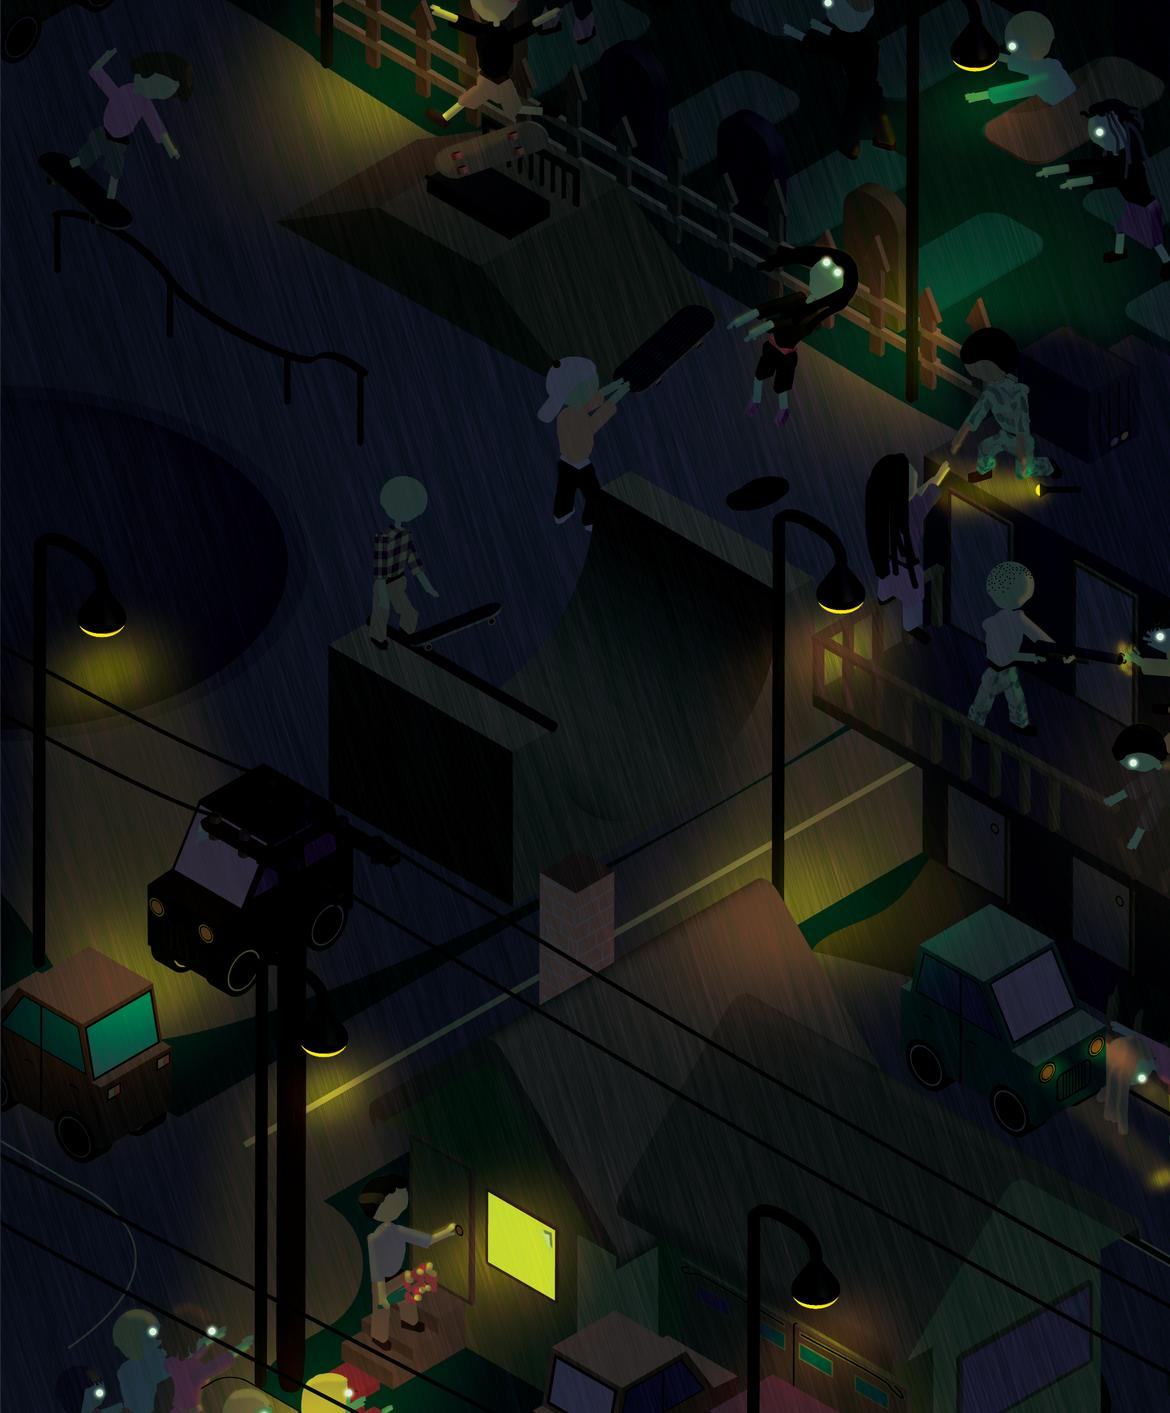
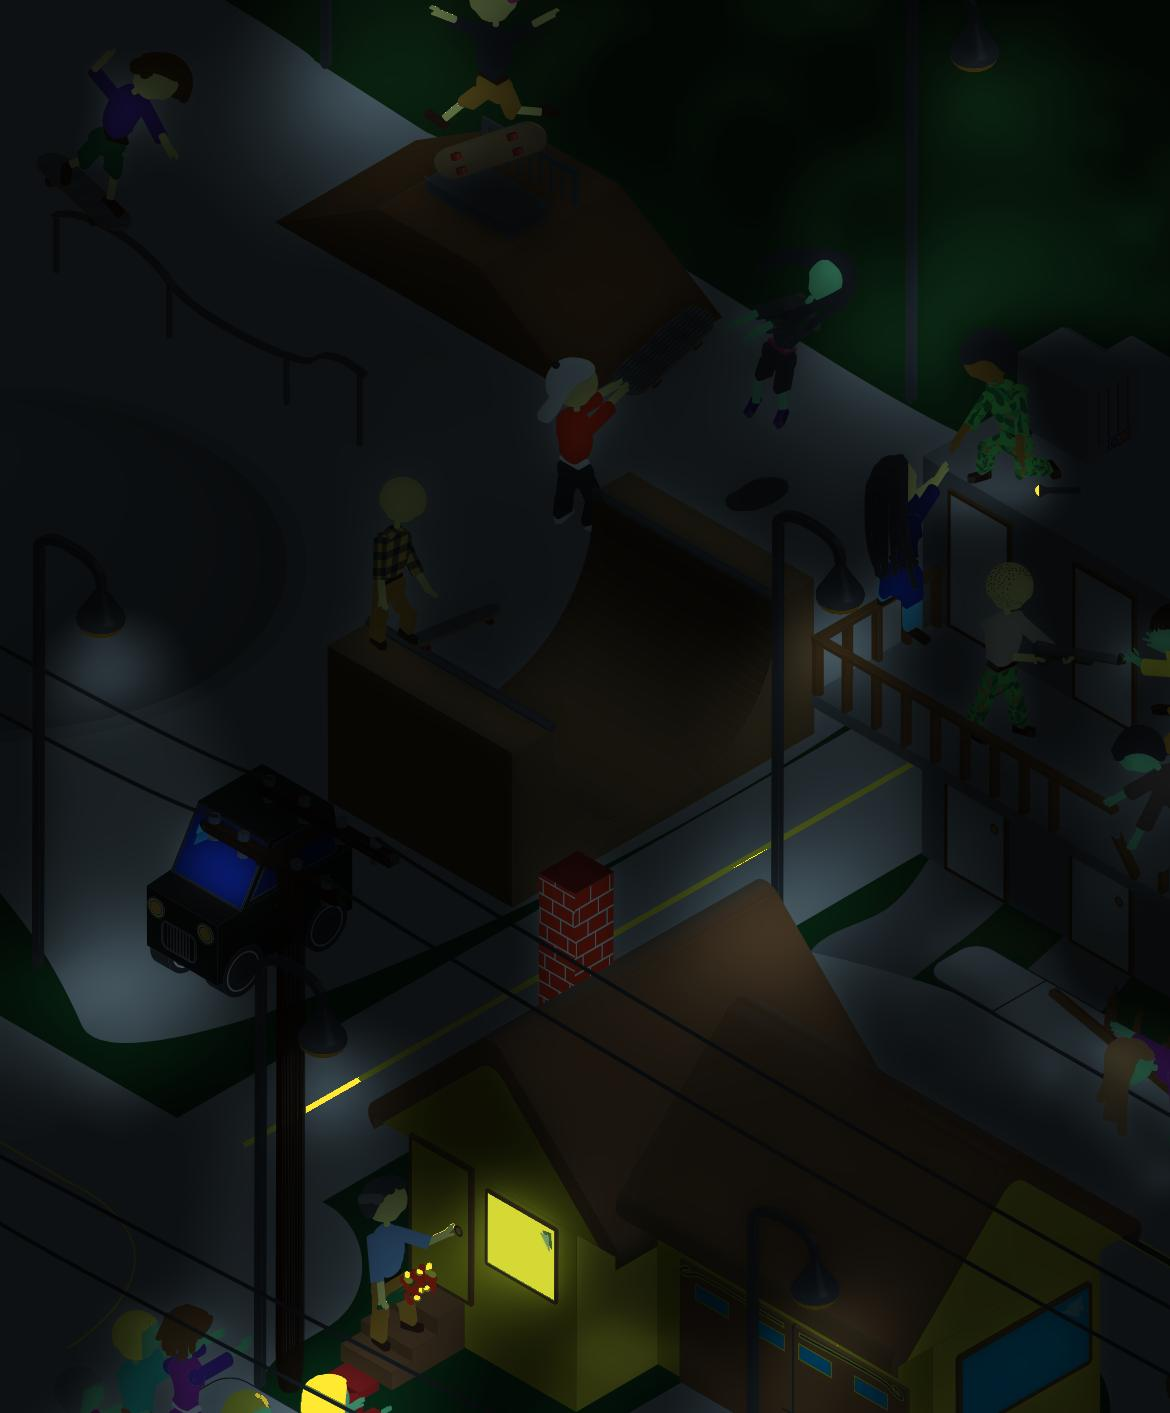
Poster: clean relit vector art (no static people or cars), rounded characters, roaming potato monster, pinch/wheel zoom

diff --git a/src/poster/main.js b/src/poster/main.js
@@ -1,8 +1,8 @@
 import * as THREE from 'three';
-import { makeCharacter, animateWalk } from '../characters.js';
+import { makeCharacter, animateWalk } from './characters.js';
 import { createInput } from '../input.js';
 import { unlockAudio, sfx, startMusic, stopMusic, setMusicTension, setMuted, isMuted, audioState } from '../audio.js';
-import { loadWorld, flowField, findPath, nearestOpen, CAM_DIR, pxToWorld, worldToPx, PPU } from './world.js';
+import { loadWorld, flowField, findPath, nearestOpen, CAM_DIR, RIGHT, UP, pxToWorld, worldToPx, PPU } from './world.js';
 
 // ---------- renderer / scene ----------
 const canvas = document.getElementById('game');
@@ -14,9 +14,10 @@ const camera = new THREE.OrthographicCamera(-1, 1, 1, -1, 0.1, 500);
 scene.add(new THREE.HemisphereLight(0xbfe6e0, 0x24383c, 1.6));
 const sun = new THREE.DirectionalLight(0xd0e8ff, 0.8); sun.position.set(-6, 10, 8); scene.add(sun);
 
+let zoom = 1; try { zoom = +localStorage.getItem('dv_zoom') || 1; } catch { /* ignore */ }
 function fitCamera() {
   const aspect = innerWidth / innerHeight; renderer.setSize(innerWidth, innerHeight, false);
-  const half = aspect < 1 ? 12 / aspect * 0.62 : 10; // portrait phones see about 600 px of painting across
+  const half = (aspect < 1 ? 12 / aspect * 0.62 : 10) * zoom; // portrait phones see about 600 px of painting across
   camera.left = -half * aspect; camera.right = half * aspect; camera.top = half; camera.bottom = -half; camera.updateProjectionMatrix();
 }
 addEventListener('resize', fitCamera); fitCamera();
@@ -36,7 +37,7 @@ soundBtn.addEventListener('click', () => { unlockAudio(); setMuted(!isMuted()); 
 
 // ---------- constants ----------
 const PLAYER_SPEED = 4.5, R = 0.3, CHAR_SCALE = 1.3;
-const CIV_OUTFITS = ['vest', 'suit', 'hoodie', 'hivis', 'punk', 'worker'];
+const CIV_OUTFITS = ['vest', 'suit', 'hoodie', 'hivis', 'punk', 'worker', 'pink', 'plaid'];
 const WEAPONS = {
   pistol:  { name: 'Pistol',  ammo: 12, rate: 0.35, range: 9,  speed: 22, pellets: 1, dmg: 1, color: 0x333333 },
   shotgun: { name: 'Shotgun', ammo: 6,  rate: 0.7,  range: 7,  speed: 18, pellets: 4, dmg: 1, color: 0x7a4a1a },
@@ -48,7 +49,7 @@ let world = null, state = 'loading', score = 0, lives = 3, time = 0, kills = 0, 
 let startCell = null, exitCell = null, exitMesh = null;
 const player = makeCharacter('worker'); scene.add(player); player.visible = false; player.scale.setScalar(CHAR_SCALE);
 // x-ray silhouette so the player stays visible behind buildings
-const ghostMat = new THREE.MeshBasicMaterial({ color: 0x9fffb0, transparent: true, opacity: 0.35, depthTest: false, depthWrite: false });
+const ghostMat = new THREE.MeshBasicMaterial({ color: 0x9fffb0, transparent: true, opacity: 0.45, depthTest: true, depthWrite: false, depthFunc: THREE.GreaterDepth });
 const ghost = makeCharacter('worker'); ghost.traverse((o) => { if (o.isMesh) { o.material = ghostMat; o.renderOrder = 999; } }); ghost.scale.setScalar(CHAR_SCALE); ghost.visible = false; scene.add(ghost);
 function syncGhost() { ghost.visible = player.visible; ghost.position.copy(player.position); ghost.rotation.copy(player.rotation); const a = player.userData, b = ghost.userData; for (const k of ['legL', 'legR', 'armL', 'armR', 'head']) b[k].rotation.copy(a[k].rotation); b.body.position.copy(a.body.position); }
 let civilians = [], zombies = [], pickups = [], projectiles = [], particles = [], followers = [];
@@ -61,6 +62,26 @@ const puffGeo = new THREE.BoxGeometry(0.16, 0.16, 0.16), puffMat = new THREE.Mes
 const markerGeo = new THREE.CylinderGeometry(0.22, 0.22, 0.05, 10), markerMat = new THREE.MeshBasicMaterial({ color: 0x7dff6a, transparent: true, opacity: 0.8 });
 const markers = []; for (let i = 0; i < 80; i++) { const mk = new THREE.Mesh(markerGeo, markerMat); mk.visible = false; scene.add(mk); markers.push(mk); }
 const camTarget = new THREE.Vector3();
+let potato = null; // { mesh, route, speed, w, h, t }
+async function makePotato() {
+  const meta = await (await fetch('poster/potato.json')).json().catch(() => null); if (!meta) return;
+  const t = await new Promise((res, rej) => new THREE.TextureLoader().load('poster/potato.png', (x) => { x.colorSpace = THREE.SRGBColorSpace; res(x); }, undefined, rej)).catch(() => null); if (!t) return;
+  const w = meta.w / PPU, h = meta.h / PPU; // world size of the sprite
+  const g = new THREE.BufferGeometry();
+  const ax = meta.ax - meta.x, ay = meta.ay - meta.y; // anchor inside the sprite (px)
+  const c = (px, py) => { const r = (px - ax) / PPU, u = (ay - py) / PPU; return [RIGHT.x * r + UP.x * u, UP.y * u, RIGHT.z * r + UP.z * u]; };
+  const pos = [...c(0, meta.h), ...c(meta.w, meta.h), ...c(0, 0), ...c(meta.w, 0)];
+  g.setAttribute('position', new THREE.Float32BufferAttribute(pos, 3)); g.setAttribute('uv', new THREE.Float32BufferAttribute([0, 0, 1, 0, 0, 1, 1, 1], 2)); g.setIndex([0, 1, 2, 2, 1, 3]);
+  const mesh = new THREE.Mesh(g, new THREE.MeshBasicMaterial({ map: t, alphaTest: 0.5, side: THREE.DoubleSide })); scene.add(mesh);
+  potato = { mesh, route: [], speed: 0.9, t: 0, w, h, last: new THREE.Vector3() };
+}
+function updatePotato(dt) {
+  if (!potato || !world) return; const p = potato; p.t += dt;
+  if (!p.route.length) { const cells = []; const pc = world.cellOf(p.mesh.position.x, p.mesh.position.z); for (let k = 0; k < 40 && cells.length < 1; k++) { const c = pc.cx + ((Math.random() - 0.5) * 30) | 0, r = pc.cy + ((Math.random() - 0.5) * 30) | 0; if (world.open(c, r)) { const path = findPath(world, pc, { cx: c, cy: r }); if (path.length > 4) cells.push(path); } } if (cells.length) p.route = cells[0]; }
+  if (p.route.length) { const w = world.cellCenter(p.route[0][0], p.route[0][1]); const dx = w.x - p.mesh.position.x, dz = w.z - p.mesh.position.z, d = Math.hypot(dx, dz); if (d < 0.3) p.route.shift(); else { const st = Math.min(d, p.speed * dt); p.mesh.position.x += dx / d * st; p.mesh.position.z += dz / d * st; } }
+  p.mesh.scale.set(1 + Math.sin(p.t * 2.2) * 0.03, 1 - Math.sin(p.t * 2.2) * 0.03, 1); // slow breathing
+  if (state === 'play' && invuln <= 0 && Math.hypot(p.mesh.position.x - player.position.x, p.mesh.position.z - player.position.z) < 1.6) loseLife();
+}
 const input = createInput(canvas, camera);
 
 function showRoute() { markers.forEach((mk, i) => { const c = route[i]; mk.visible = !!c; if (c) { const w = world.cellCenter(c[0], c[1]); mk.position.set(w.x, 0.03, w.z); } }); }
@@ -73,6 +94,7 @@ function extendRoute(w, first) {
   const seg = findPath(world, routeEndCell || playerCell(), t); if (seg.length && route.length + seg.length <= 80) { route.push(...seg); routeEndCell = t; showRoute(); }
 }
 input.on('tap', setRouteTo); input.on('drag', extendRoute);
+input.on('zoom', (f) => { zoom = Math.max(0.5, Math.min(2.2, zoom * f)); try { localStorage.setItem('dv_zoom', String(zoom)); } catch { /* ignore */ } fitCamera(); });
 
 // collision: stay on walkable cells (cheap: push back toward last good position)
 const lastGood = new THREE.Vector3();
@@ -116,6 +138,7 @@ function buildLevel() {
   let wc = 0; const names = Object.keys(WEAPONS);
   for (const [c, r] of mid.slice().reverse()) { if (wc >= 5) break; if (dist[r * gcols + c] < 8) continue; const type = names[(rng() * 3) | 0]; const w = world.cellCenter(c, r); const mesh = new THREE.Mesh(pickGeo, new THREE.MeshLambertMaterial({ color: WEAPONS[type].color })); mesh.position.set(w.x, 0.3, w.z); scene.add(mesh); pickups.push({ mesh, type }); wc++; }
   const sp = world.cellCenter(startCell.cx, startCell.cy); player.position.set(sp.x, 0, sp.z); lastGood.copy(player.position); player.visible = true;
+  if (potato) { const spot = mid.find(([c, r]) => r > grows * 0.55 && dist[r * gcols + c] > 30); if (spot) { const w = world.cellCenter(spot[0], spot[1]); potato.mesh.position.set(w.x, 0, w.z); potato.route = []; } }
   weapon = null; ammo = 0; flow = null; invuln = 1; kills = 0; time = 0; route = []; routeEndCell = null; showRoute(); camTarget.copy(player.position);
   updateHud();
 }
@@ -228,6 +251,7 @@ function frame(now) {
     for (let i = particles.length - 1; i >= 0; i--) { const p = particles[i]; p.position.addScaledVector(p.userData.vel, dt); p.userData.vel.y -= 12 * dt; p.userData.life -= dt; if (p.userData.life <= 0) { scene.remove(p); particles.splice(i, 1); } }
   } else if (state !== 'loading') { for (const z of zombies) animateWalk(z, dt, 0.3); }
   if (rain) updateRain(dt);
+  if (state === 'play' || state === 'start') updatePotato(dt);
   syncGhost();
   render(dt);
 }
@@ -249,10 +273,10 @@ requestAnimationFrame(frame);
 (async () => {
   try {
     world = await loadWorld(scene, 'poster/');
-    makeRain();
+    makeRain(); await makePotato();
     // idle view on the title screen: middle of town
     const mid = pxToWorld(world.meta.width / 2, world.meta.height * 0.55); player.position.set(mid.x, 0, mid.z); camTarget.copy(player.position);
     state = 'start'; $('loading').textContent = 'Town loaded. ' + Math.round(world.meta.width) + '×' + Math.round(world.meta.height) + ' px of Duvallville.'; $('startBtn').disabled = false;
   } catch (e) { $('loading').textContent = 'Could not load the town: ' + e.message; }
 })();
-window.__dv = { get world() { return world; }, get player() { return player; }, get state() { return state; }, get zombies() { return zombies; }, get civilians() { return civilians; }, get pickups() { return pickups; }, get exit() { return exitMesh && exitMesh.position; }, routeTo: (c, r) => { const w = world.cellCenter(c, r); setRouteTo(w); }, px: worldToPx, toWorld: pxToWorld, PPU };
+window.__dv = { get potato() { return potato; }, get world() { return world; }, get player() { return player; }, get state() { return state; }, get zombies() { return zombies; }, get civilians() { return civilians; }, get pickups() { return pickups; }, get exit() { return exitMesh && exitMesh.position; }, routeTo: (c, r) => { const w = world.cellCenter(c, r); setRouteTo(w); }, px: worldToPx, toWorld: pxToWorld, PPU };

diff --git a/src/poster/characters.js b/src/poster/characters.js
@@ -1,0 +1,56 @@
+// Rounded, flat-shaded characters in the poster's style: round heads, capsule bodies and limbs,
+// big glowing eyes on zombies. Same animation hooks as the blocky characters.
+import * as THREE from 'three';
+
+export const OUTFITS = {
+  worker:  { skin: 0xf0c9a6, hair: 0x4a2f1c, shirt: 0x4f8fd6, pants: 0x3b3f55, tie: 0x2a3d7a },
+  vest:    { skin: 0xf0c9a6, hair: 0x1f2740, shirt: 0xff8a2a, pants: 0x2c3148 },
+  suit:    { skin: 0xf3d2b3, hair: null,     shirt: 0x3a3d4a, pants: 0x30333f, tie: 0xc62828 },
+  hoodie:  { skin: 0xf0c9a6, hair: 0x7a3fa8, shirt: 0x2a2730, pants: 0x3a5fa8 },
+  hivis:   { skin: 0xf0c9a6, hair: 0x1f2740, shirt: 0xd8f03a, pants: 0x2c3148 },
+  punk:    { skin: 0xf0c9a6, hair: 0x3fbf4a, shirt: 0x1e1b22, pants: 0x3a4a6a },
+  pink:    { skin: 0xf0c9a6, hair: 0xe85aa0, shirt: 0xc23b6b, pants: 0x2f4f6a },
+  plaid:   { skin: 0xe9c39e, hair: 0x2a1a10, shirt: 0x9a3a4a, pants: 0x2b3a2b },
+};
+const matCache = new Map();
+const mat = (c) => { if (!matCache.has(c)) matCache.set(c, new THREE.MeshLambertMaterial({ color: c })); return matCache.get(c); };
+const sphere = new THREE.SphereGeometry(0.5, 14, 10);
+const capsule = new THREE.CapsuleGeometry(0.5, 1, 4, 10);
+const part = (geo, c, sx, sy, sz, x, y, z) => { const m = new THREE.Mesh(geo, mat(c)); m.scale.set(sx, sy, sz); m.position.set(x, y, z); return m; };
+
+function zombify(o) {
+  const dark = (c, f) => { const col = new THREE.Color(c); col.multiplyScalar(f); return col.getHex(); };
+  return { ...o, skin: 0x7fd3b0, shirt: dark(o.shirt, 0.6), pants: dark(o.pants, 0.6), hair: o.hair == null ? null : dark(o.hair, 0.55) };
+}
+
+export function makeCharacter(outfitName, { zombie = false } = {}) {
+  let o = OUTFITS[outfitName] || OUTFITS.worker; if (zombie) o = zombify(o);
+  const g = new THREE.Group(); const body = new THREE.Group(); g.add(body);
+  // legs: capsules hanging from the hip
+  const legL = new THREE.Group(); legL.position.set(-0.16, 0.95, 0); legL.add(part(capsule, o.pants, 0.26, 0.42, 0.26, 0, -0.42, 0)); legL.add(part(sphere, 0x1a1a1a, 0.3, 0.2, 0.4, 0, -0.85, 0.06));
+  const legR = legL.clone(); legR.position.x = 0.16; body.add(legL, legR);
+  // torso: a chubby capsule
+  body.add(part(capsule, o.shirt, 0.78, 0.46, 0.6, 0, 1.3, 0));
+  if (o.tie) body.add(part(capsule, o.tie, 0.1, 0.25, 0.08, 0, 1.3, 0.32));
+  // arms
+  const armL = new THREE.Group(); armL.position.set(-0.46, 1.68, 0); armL.add(part(capsule, o.shirt, 0.2, 0.3, 0.2, 0, -0.3, 0)); armL.add(part(sphere, o.skin, 0.2, 0.2, 0.2, 0, -0.66, 0));
+  const armR = armL.clone(); armR.position.x = 0.46; body.add(armL, armR);
+  // head: big round head with a hair cap
+  const head = new THREE.Group(); head.position.y = 1.78; body.add(head);
+  head.add(part(sphere, o.skin, 0.66, 0.66, 0.66, 0, 0.33, 0));
+  if (o.hair) { const cap = part(sphere, o.hair, 0.7, 0.5, 0.7, 0, 0.42, -0.04); head.add(cap); }
+  const eyeC = zombie ? 0xb8ffff : 0x1a1a1a; const eyeMat = zombie ? new THREE.MeshBasicMaterial({ color: eyeC }) : mat(eyeC);
+  for (const ex of [-0.13, 0.13]) { const e = new THREE.Mesh(sphere, eyeMat); e.scale.setScalar(zombie ? 0.14 : 0.08); e.position.set(ex, 0.34, 0.3); head.add(e); }
+  if (zombie) { armL.rotation.x = -1.3; armR.rotation.x = -1.3; body.rotation.x = 0.12; head.rotation.z = 0.15; }
+  g.userData = { body, legL, legR, armL, armR, head, zombie, phase: Math.random() * 6 };
+  return g;
+}
+
+export function animateWalk(g, dt, speed) {
+  const u = g.userData;
+  u.phase += dt * (u.zombie ? 6 : 11) * Math.max(speed, 0.001);
+  const s = Math.sin(u.phase) * 0.7 * speed;
+  u.legL.rotation.x = s; u.legR.rotation.x = -s;
+  if (u.zombie) { u.armL.rotation.x = -1.3 + s * 0.2; u.armR.rotation.x = -1.3 - s * 0.2; u.body.position.y = Math.abs(Math.sin(u.phase)) * 0.05 * speed; }
+  else { u.armL.rotation.x = -s; u.armR.rotation.x = s; u.body.position.y = Math.abs(Math.sin(u.phase)) * 0.08 * speed; }
+}

diff --git a/src/input.js b/src/input.js
@@ -5,31 +5,39 @@ import * as THREE from 'three';
 export function createInput(canvas, camera) {
   const ray = new THREE.Raycaster(), ground = new THREE.Plane(new THREE.Vector3(0, 1, 0), 0), hit = new THREE.Vector3(), ndc = new THREE.Vector2();
   let down = false, startX = 0, startY = 0, dragged = false, id = null;
-  const listeners = { tap: [], drag: [], dragEnd: [] };
+  const listeners = { tap: [], drag: [], dragEnd: [], zoom: [] };
+  const pointers = new Map(); let pinchDist = 0, pinching = false;
   const toWorld = (x, y) => {
     ndc.set((x / innerWidth) * 2 - 1, -(y / innerHeight) * 2 + 1);
     ray.setFromCamera(ndc, camera);
     return ray.ray.intersectPlane(ground, hit) ? { x: hit.x, z: hit.z } : null;
   };
   canvas.addEventListener('pointerdown', (e) => {
+    pointers.set(e.pointerId, [e.clientX, e.clientY]);
+    if (pointers.size === 2) { const [a, b] = [...pointers.values()]; pinchDist = Math.hypot(a[0] - b[0], a[1] - b[1]); pinching = true; down = false; id = null; for (const f of listeners.dragEnd) f(); return; }
     if (id !== null) return; id = e.pointerId; canvas.setPointerCapture(e.pointerId);
     down = true; dragged = false; startX = e.clientX; startY = e.clientY;
     const w = toWorld(e.clientX, e.clientY); if (w) for (const f of listeners.drag) f(w, true);
   });
   canvas.addEventListener('pointermove', (e) => {
+    if (pointers.has(e.pointerId)) pointers.set(e.pointerId, [e.clientX, e.clientY]);
+    if (pinching && pointers.size === 2) { const [a, b] = [...pointers.values()]; const d = Math.hypot(a[0] - b[0], a[1] - b[1]); if (pinchDist > 0 && d > 0) for (const f of listeners.zoom) f(pinchDist / d); pinchDist = d; return; }
     if (!down || e.pointerId !== id) return;
     if (!dragged && Math.hypot(e.clientX - startX, e.clientY - startY) > 14) dragged = true;
     if (dragged) { const w = toWorld(e.clientX, e.clientY); if (w) for (const f of listeners.drag) f(w, false); }
   });
   const up = (e) => {
+    pointers.delete(e.pointerId);
+    if (pinching) { if (pointers.size === 0) pinching = false; return; }
     if (e.pointerId !== id) return; down = false; id = null;
     const w = toWorld(e.clientX, e.clientY);
     if (dragged) { for (const f of listeners.dragEnd) f(); }
     else if (w) { for (const f of listeners.tap) f(w); }
   };
   canvas.addEventListener('pointerup', up); canvas.addEventListener('pointercancel', up);
+  canvas.addEventListener('wheel', (e) => { e.preventDefault(); for (const f of listeners.zoom) f(e.deltaY > 0 ? 1.1 : 0.9); }, { passive: false });
   return {
     on(type, f) { listeners[type].push(f); },
-    reset() { down = false; id = null; dragged = false; },
+    reset() { down = false; id = null; dragged = false; pinching = false; pointers.clear(); },
   };
 }

diff --git a/README.md b/README.md
@@ -38,6 +38,21 @@ Upload the `dist/` folder to any static host (GitHub Pages, Netlify, itch.io, Cl
 
 Live: https://devon-cadaver.github.io/office-outbreak/ (deploys from `main` via GitHub Actions). The blocky version is also tagged `v1-blocky` / branch `blocky-classic`.
 
+## Poster version (poster.html)
+
+The painted town is the world. Assets in `public/poster/` are generated from the artist's files
+(not in the repo, see `example sprites/illustrator/`):
+
+```bash
+node --max-old-space-size=8192 tools/relight-poster.mjs 2 5   # clean vector art relit with the poster's lighting
+node --max-old-space-size=8192 tools/cut-potato.mjs            # potato monster sprite + erase its spot
+node --max-old-space-size=8192 tools/build-poster.mjs 2        # ground tiles, structure strips, walk grid
+```
+
+`tools/ai-layers.mjs` renders any set of Illustrator layers (PDF optional content groups) with pdf.js.
+`src/poster/world.js` maps image pixels to a true-isometric ground plane and batches structure strips
+as camera-facing quads so characters sort correctly behind buildings. Pinch or mouse wheel to zoom.
+
 ## Where things live
 
 - `src/main.js` – game loop, levels, civilians, infection, weapons, lives, scoring, HUD.
